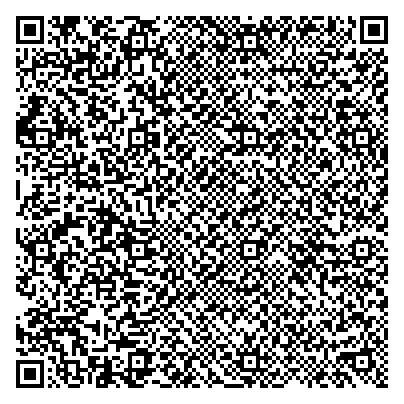
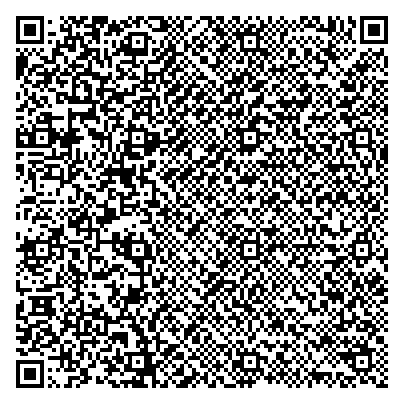
working node-qrcode.js

Changed region(s): [[0.0297, 0.0297, 0.9802, 0.9802], [0.9208, 0.3267, 0.9505, 0.3564], [0.6238, 0.0891, 0.6535, 0.1188]]

diff --git a/node-qrcode.js b/node-qrcode.js
@@ -1,0 +1,92 @@
+var QRCode = require( 'qrcode' );
+
+var data = [];
+
+var title = 'Hello World.';
+var author = 'K.Kimura';
+var town = 'My Town';
+
+//. Title
+for( var i = 0; i < title.length || i < 21; i ++ ){
+  if( i < title.length ){
+    var c = title.charCodeAt( i );
+    data.push( c );
+  }else{
+    data.push( 0 );
+  }
+  data.push( 0 );
+}
+
+//. *1, *2
+data.push( 0 );
+data.push( 0 );
+
+//. Author
+for( var i = 0; i < author.length || i < 9; i ++ ){
+  if( i < author.length ){
+    var c = author.charCodeAt( i );
+    data.push( c );
+  }else{
+    data.push( 0 );
+  }
+  data.push( 0 );
+}
+
+//. *12, *13, *3, *4
+data.push( 0 );
+data.push( 0 );
+data.push( 0 );
+data.push( 0 );
+
+//. Town
+for( var i = 0; i < town.length || i < 9; i ++ ){
+  if( i < town.length ){
+    var c = town.charCodeAt( i );
+    data.push( c );
+  }else{
+    data.push( 0 );
+  }
+  data.push( 0 );
+}
+
+//. *14, *15, *5, *6
+data.push( 0 );
+data.push( 0 );
+data.push( 0 );
+data.push( 0 );
+
+//. Color Pallete
+data.push( 159 );
+data.push( 145 );
+data.push( 7 );
+data.push( 16 );
+data.push( 25 );
+data.push( 34 );
+data.push( 43 );
+data.push( 52 );
+data.push( 61 );
+data.push( 70 );
+data.push( 79 );
+data.push( 88 );
+data.push( 97 );
+data.push( 106 );
+data.push( 115 );
+
+//. *7, *8, *9, *10, *11
+data.push( 0 );
+data.push( 10 );
+data.push( 9 );
+data.push( 0 );
+data.push( 0 );
+
+//. Palette data
+for( var i = 0; i < 512; i ++ ){
+  var r = Math.floor( Math.random() * 15 );
+  data.push( r );
+}
+console.log( data );
+
+QRCode.toFile( 
+  'a.png',
+  [ { data: data, mode: 'byte' } ]
+);
